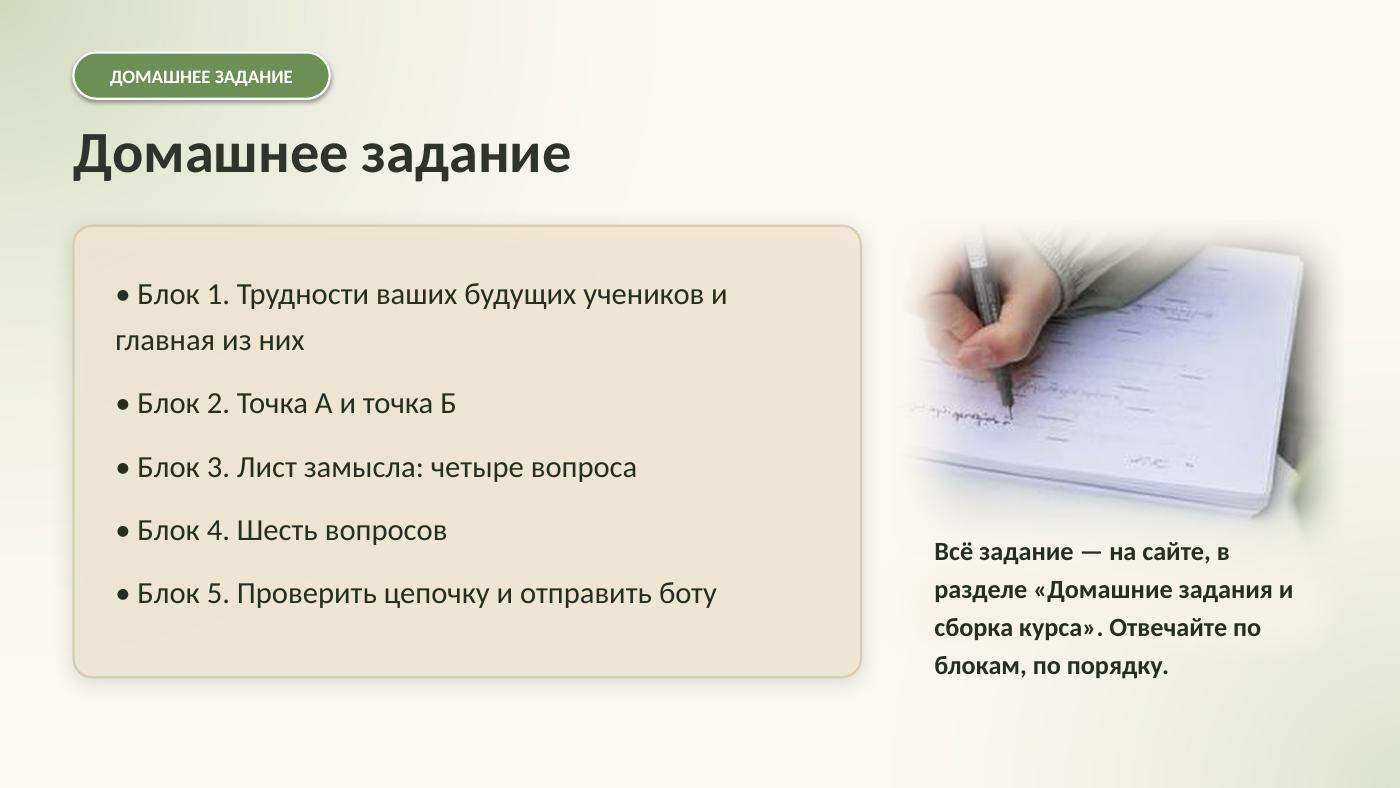
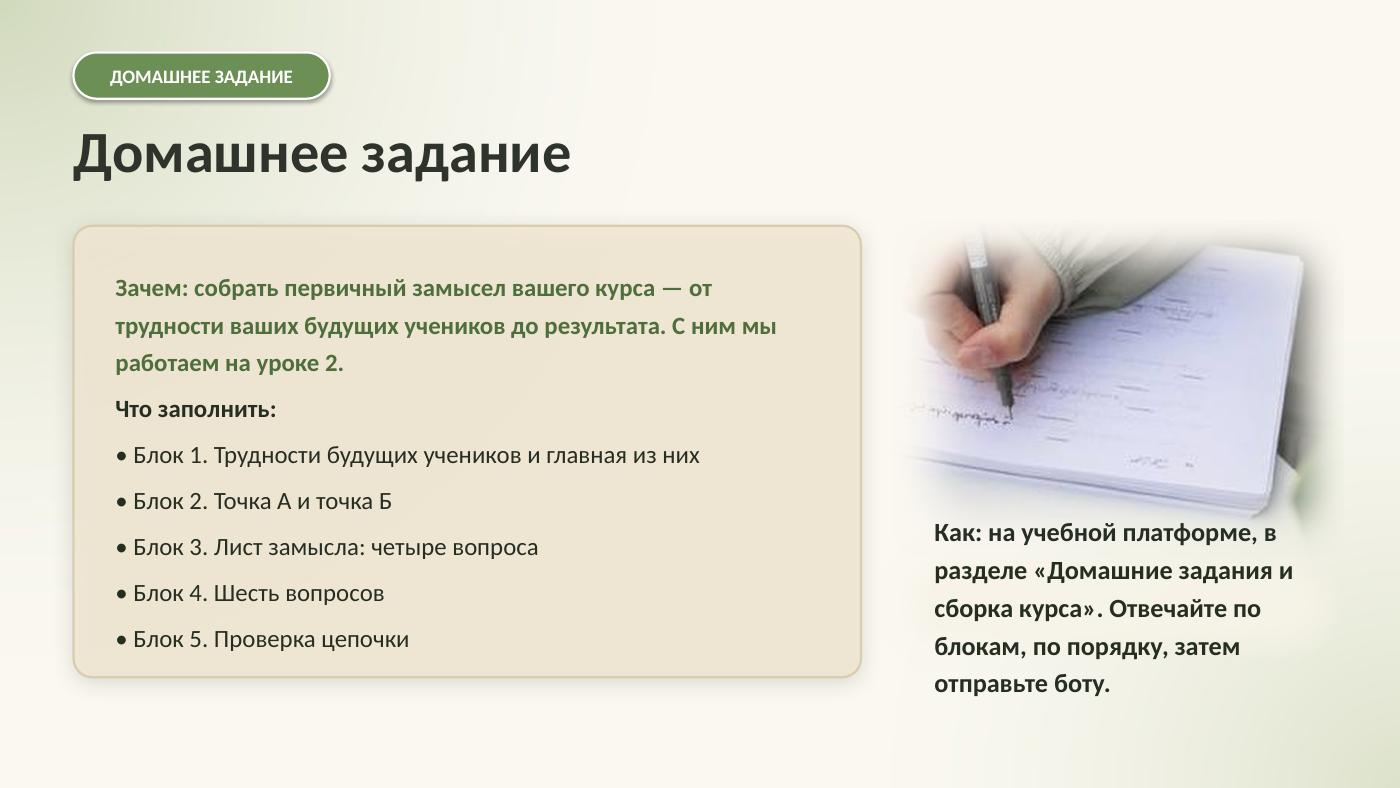
Урок 1: цель ДЗ, список блоков, «учебная платформа»
Claude-Session: https://claude.ai/code/session_01QSBLQ1QGNxgcnSucjRRssF

Changed region(s): [[0.0614, 0.335, 0.5529, 0.7005], [0.645, 0.6701, 0.9214, 0.8832], [0.0921, 0.731, 0.5221, 0.8223]]

diff --git a/konstruktor.html b/konstruktor.html
@@ -63,7 +63,7 @@ textarea,input,select{border-radius:18px!important;border:0!important;background
 <h1>Домашние задания и сборка курса</h1>
 <p>Здесь вы выполняете задания, сохраняете свои решения и готовите материалы для создания курса.</p>
 <label>Ваше имя</label><input id="who" placeholder="Имя Фамилия">
-<div class="note"><b>Как сдать домашнее задание</b><br>1. Зайдите в общую группу в Telegram и откройте ссылку на сайт.<br>2. Откройте раздел «Домашние задания и сборка курса» и выберите урок.<br>3. Заполните все поля урока. <span style="color:#1D5FD1;font-style:italic">Синий текст</span> — пример: начните писать, и он исчезнет.<br>4. Нажмите «Скопировать и отправить боту»: откроется бот, вставьте текст и отправьте. Куратор получит ваше задание.<br>5. Если часть задания вы делали от руки или на печати, сфотографируйте или сделайте скриншот и отправьте боту в том же чате, следом за текстом.<br>Так — на каждом уроке. Следующее задание откроется, когда вы выполните предыдущее: заполните все поля или отправьте его боту. Всё, что вы написали, сохраняется в этом браузере. В промптах для Kimi поля в <mark>[квадратных скобках]</mark> замените своим; внизу — комплекты для Kimi, в них соберётся всё, что вы заполнили.</div>
+<div class="note"><b>Как сдать домашнее задание</b><br>1. Зайдите в общую группу в Telegram и откройте ссылку на учебную платформу.<br>2. Откройте раздел «Домашние задания и сборка курса» и выберите урок.<br>3. Заполните все поля урока. <span style="color:#1D5FD1;font-style:italic">Синий текст</span> — пример: начните писать, и он исчезнет.<br>4. Нажмите «Скопировать и отправить боту»: откроется бот, вставьте текст и отправьте. Куратор получит ваше задание.<br>5. Если часть задания вы делали от руки или на печати, сфотографируйте или сделайте скриншот и отправьте боту в том же чате, следом за текстом.<br>Так — на каждом уроке. Следующее задание откроется, когда вы выполните предыдущее: заполните все поля или отправьте его боту. Всё, что вы написали, сохраняется в этом браузере. В промптах для Kimi поля в <mark>[квадратных скобках]</mark> замените своим; внизу — комплекты для Kimi, в них соберётся всё, что вы заполнили.</div>
 </div>
 <div id="lessons"></div>
 <div class="blk">МАТЕРИАЛЫ ДЛЯ KIMI</div>
@@ -81,7 +81,7 @@ textarea,input,select{border-radius:18px!important;border:0!important;background
 var TG='https://t.me/+zDj6L_XIXr84NDM0'; // группа учениц
 var BOT='https://t.me/dz_df2027_bot'; // бот домашних заданий
 var L=[
-{n:1,t:'Архитектура мышления',note:'<b>Что вы сдаёте:</b> лист замысла и ответы на шесть вопросов.<br>Отвечайте по порядку: каждый блок опирается на предыдущий. В конце вы увидите, как связаны ваши ответы, и проверите, сходится ли ваш замысел.<br><b>Ваш будущий ученик</b> — это тот, кого вы будете учить на своём курсе: ребёнок, подросток или женщина.',f:[
+{n:1,t:'Архитектура мышления',note:'<b>Зачем это задание:</b> собрать первичный замысел вашего курса — от трудности ваших будущих учеников до результата. С ним мы работаем на уроке 2.<br><br><b>Что вы заполняете — пять блоков по порядку:</b><br>1. Трудности ваших будущих учеников<br>2. Точка А и точка Б<br>3. Лист замысла: четыре вопроса<br>4. Шесть вопросов<br>5. Что у вас сложилось: проверка цепочки<br>Каждый блок опирается на предыдущий. В конце вы увидите, как связаны ваши ответы, и проверите, сходится ли ваш замысел.<br><b>Ваш будущий ученик</b> — это тот, кого вы будете учить на своём курсе: ребёнок, подросток или женщина.',f:[
  ['#','Блок 1. Трудности ваших будущих учеников','С них начинается курс: он отвечает на реальную трудность, которая повторяется у разных людей.'],
  ['qs','5–10 трудностей, которые повторяются, и где вы их увидели','1. Путают Ш и Щ в словах — чат родителей прошлой группы. 2. Не различают И и Й — мои записи с уроков. 3. Читают по слогам и не могут сложить слово — вопросы родителей в комментариях'],
  ['main','Главная трудность: выберите одну, которая повторяется чаще всего','Путают похожие буквы в слове (Ш и Щ, И и Й) — об этом писали почти все родители'],

diff --git a/preview/konstruktor.html b/preview/konstruktor.html
@@ -63,7 +63,7 @@ textarea,input,select{border-radius:18px!important;border:0!important;background
 <h1>Домашние задания и сборка курса</h1>
 <p>Здесь вы выполняете задания, сохраняете свои решения и готовите материалы для создания курса.</p>
 <label>Ваше имя</label><input id="who" placeholder="Имя Фамилия">
-<div class="note"><b>Как сдать домашнее задание</b><br>1. Зайдите в общую группу в Telegram и откройте ссылку на сайт.<br>2. Откройте раздел «Домашние задания и сборка курса» и выберите урок.<br>3. Заполните все поля урока. <span style="color:#1D5FD1;font-style:italic">Синий текст</span> — пример: начните писать, и он исчезнет.<br>4. Нажмите «Скопировать и отправить боту»: откроется бот, вставьте текст и отправьте. Куратор получит ваше задание.<br>5. Если часть задания вы делали от руки или на печати, сфотографируйте или сделайте скриншот и отправьте боту в том же чате, следом за текстом.<br>Так — на каждом уроке. Следующее задание откроется, когда вы выполните предыдущее: заполните все поля или отправьте его боту. Всё, что вы написали, сохраняется в этом браузере. В промптах для Kimi поля в <mark>[квадратных скобках]</mark> замените своим; внизу — комплекты для Kimi, в них соберётся всё, что вы заполнили.</div>
+<div class="note"><b>Как сдать домашнее задание</b><br>1. Зайдите в общую группу в Telegram и откройте ссылку на учебную платформу.<br>2. Откройте раздел «Домашние задания и сборка курса» и выберите урок.<br>3. Заполните все поля урока. <span style="color:#1D5FD1;font-style:italic">Синий текст</span> — пример: начните писать, и он исчезнет.<br>4. Нажмите «Скопировать и отправить боту»: откроется бот, вставьте текст и отправьте. Куратор получит ваше задание.<br>5. Если часть задания вы делали от руки или на печати, сфотографируйте или сделайте скриншот и отправьте боту в том же чате, следом за текстом.<br>Так — на каждом уроке. Следующее задание откроется, когда вы выполните предыдущее: заполните все поля или отправьте его боту. Всё, что вы написали, сохраняется в этом браузере. В промптах для Kimi поля в <mark>[квадратных скобках]</mark> замените своим; внизу — комплекты для Kimi, в них соберётся всё, что вы заполнили.</div>
 </div>
 <div id="lessons"></div>
 <div class="blk">МАТЕРИАЛЫ ДЛЯ KIMI</div>

diff --git a/sw.js b/sw.js
@@ -1,4 +1,4 @@
-var V='df-v8',CORE=['./','index.html','kimi-1.html','kimi-2.html','konstruktor.html','glass2027.css','glass2027.js','dostizheniya.css','dostizheniya.js','offline.css','offline.js','icons/icon-192.png'];
+var V='df-v9',CORE=['./','index.html','kimi-1.html','kimi-2.html','konstruktor.html','glass2027.css','glass2027.js','dostizheniya.css','dostizheniya.js','offline.css','offline.js','icons/icon-192.png'];
 self.addEventListener('install',function(e){e.waitUntil(caches.open(V).then(function(c){return Promise.all(CORE.map(function(u){return c.add(u).catch(function(){})}))}).then(function(){return self.skipWaiting()}))});
 self.addEventListener('activate',function(e){e.waitUntil(caches.keys().then(function(k){return Promise.all(k.filter(function(x){return x!==V}).map(function(x){return caches.delete(x)}))}).then(function(){return self.clients.claim()}))});
 self.addEventListener('fetch',function(e){var r=e.request;if(r.method!=='GET'||new URL(r.url).origin!==location.origin)return;
